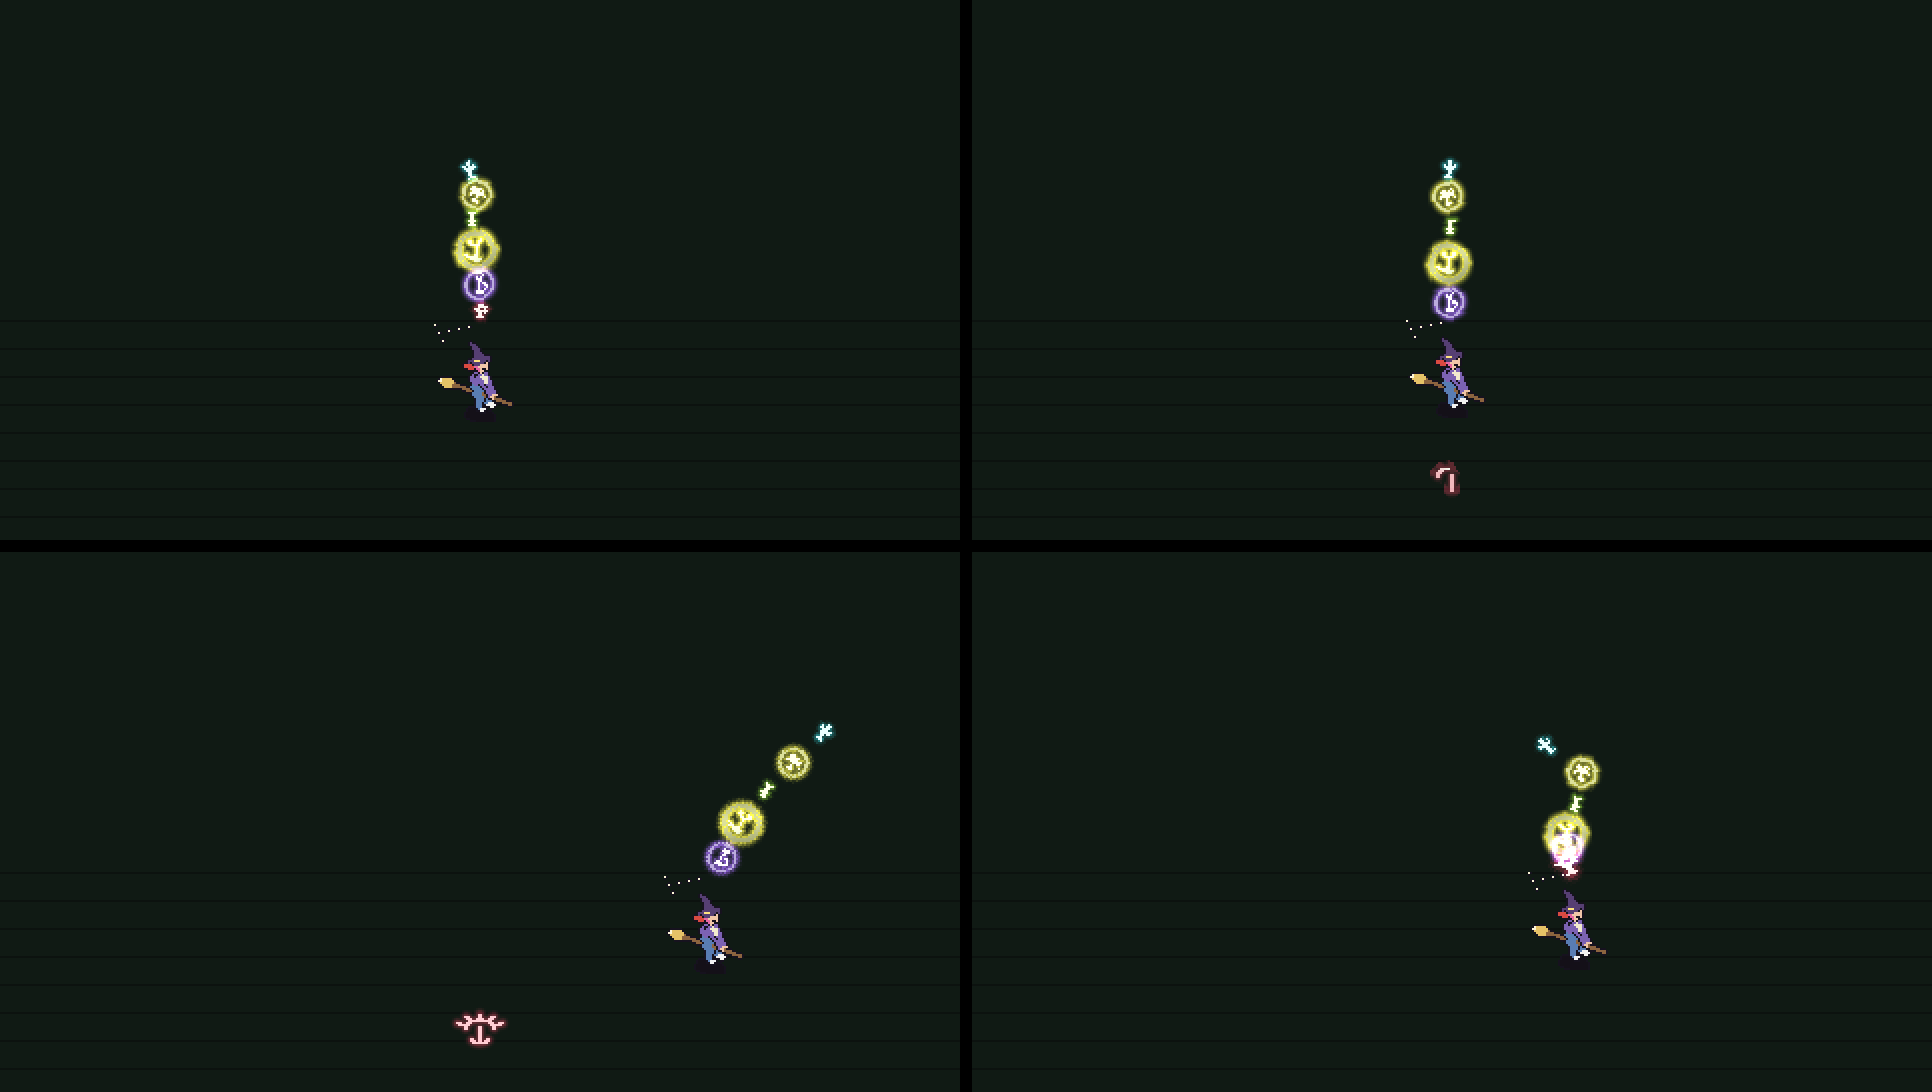
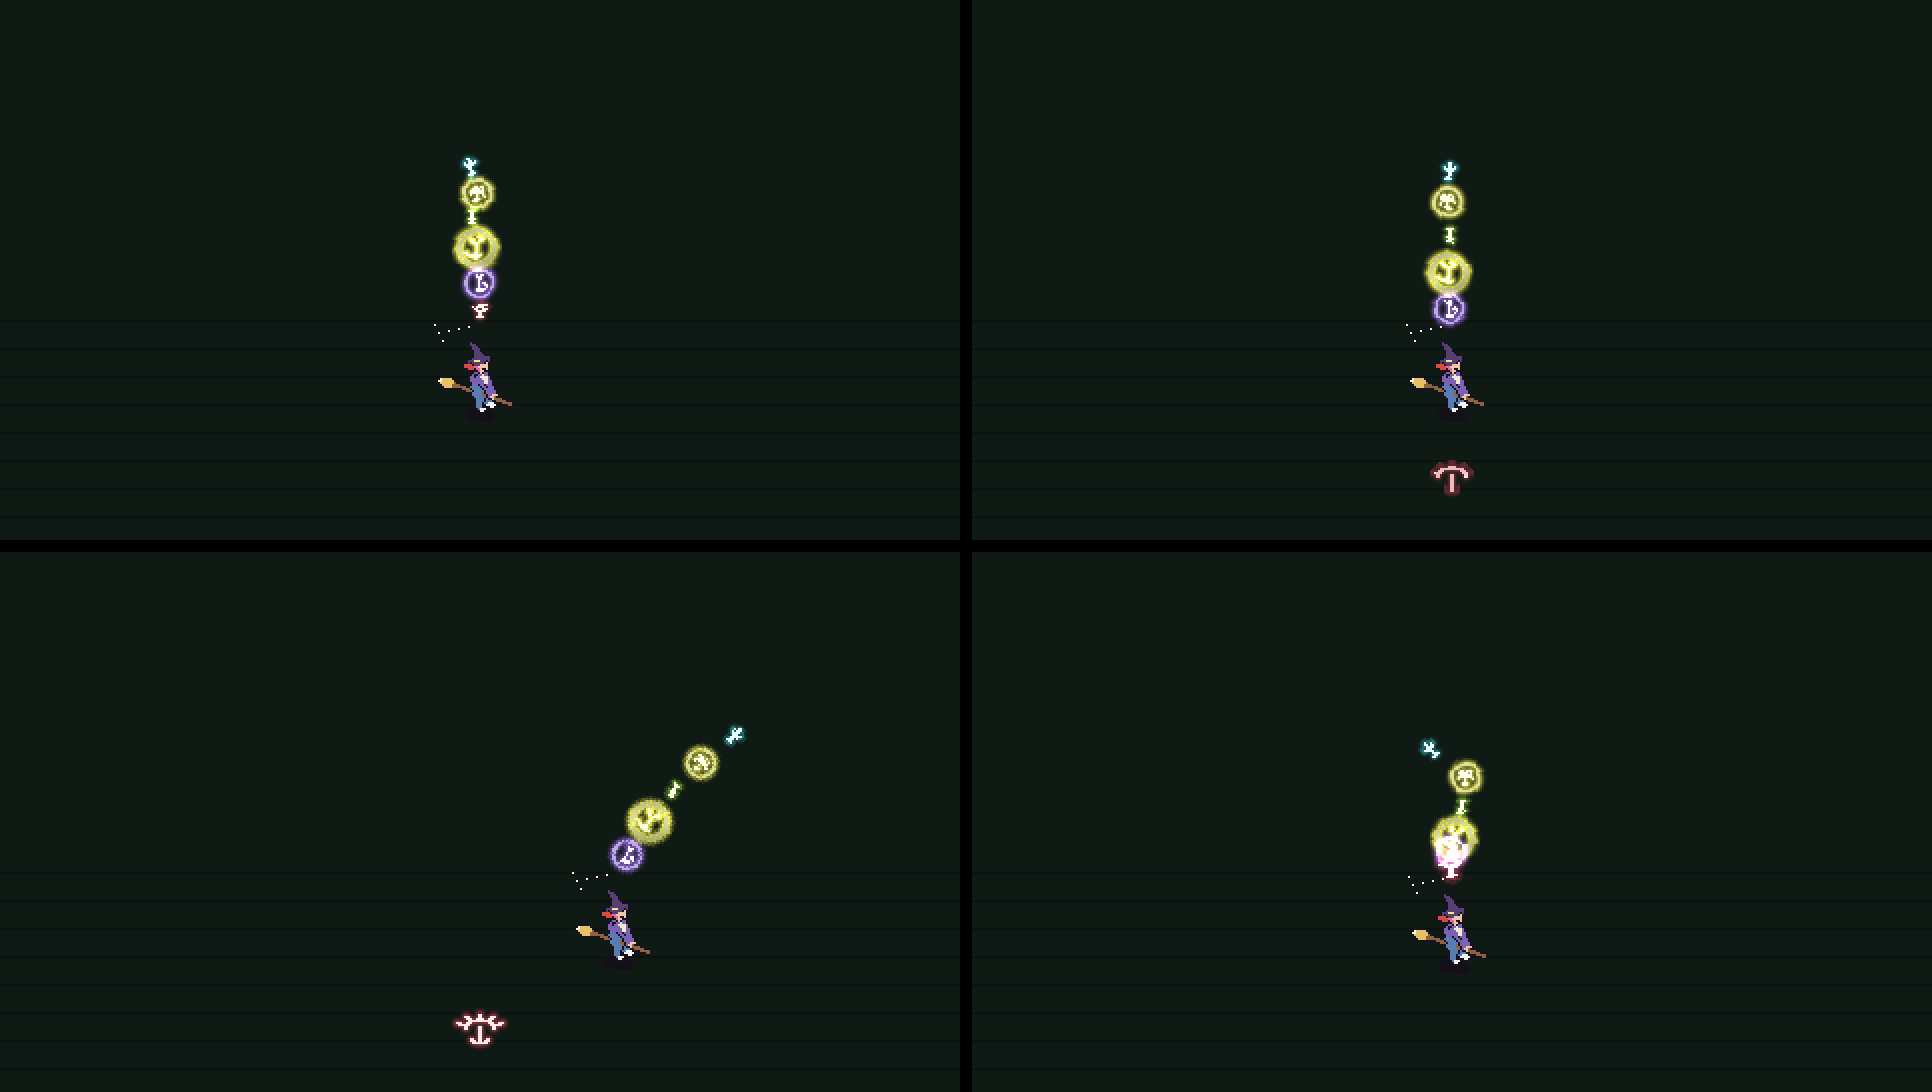
Sigils: frames for four creature levels (baby, young, adult, legend)
Claude-Session: https://claude.ai/code/session_01FVGKHvaavDn5xGsWtRTBaz

diff --git a/tools/art-lab/dist/witch-art-lab.html b/tools/art-lab/dist/witch-art-lab.html
@@ -66,7 +66,7 @@ label.check input { accent-color: var(--accent); }
 .beast figcaption { grid-template-columns: 1fr auto; }
 .beast figcaption > b, .beast figcaption > span:not(.sig) { grid-column: 1; }
 .beast figcaption .sig { grid-column: 2; grid-row: 1 / span 2; width: 44px; height: 44px; margin-left: 8px; }
-.sigils { display: grid; grid-template-columns: repeat(auto-fill, minmax(330px, 1fr)); gap: 10px; }
+.sigils { display: grid; grid-template-columns: repeat(auto-fill, minmax(420px, 1fr)); gap: 10px; }
 .sigil { margin: 0; border: 1px solid var(--line); border-radius: 6px; background: #0b0910; display: flex; flex-wrap: wrap; align-items: center; justify-content: space-around; gap: 4px; padding: 8px 6px 4px; }
 .sigil canvas { image-rendering: pixelated; }
 .sigil figcaption { flex-basis: 100%; font-size: 13px; color: var(--muted); padding-top: 4px; }
@@ -136,7 +136,7 @@ textarea { width: 100%; min-height: 90px; background: var(--bg); color: var(--fg
           <label class="check"><input type="checkbox" id="sgFly"> Fly</label>
         </div>
         <div class="stage"><canvas id="sgStack" width="480" height="270" style="width:100%;height:auto;image-rendering:pixelated"></canvas></div>
-        <p class="note">Below, each sigil at the three creature levels (baby, young, legend), flat and then on the ground at the game's angle, drawing on.</p>
+        <p class="note">Below, each sigil at the four creature levels (baby, young, adult, legend), flat and then on the ground at the game's angle, drawing on.</p>
         <div class="sigils" id="sigils"></div>
       </section>
 
@@ -1696,14 +1696,15 @@ const WHITE = [255, 255, 250], toward = (c, w, k) => c.map((v, j) => Math.round(
 const rgb = c => `rgb(${c.join(",")})`;
 
 // ---- level frames ----
-// A creature level's frame, for any level number (0 baby, 1 young, 2 legend, and beyond):
-// size steps first, then rings, then ornament.
-//   metres: across on the ground; core: the core line's thickness (x a baby's); halo: its
-//   brightness (0..1); rings: how many; band: rune ticks between the outer two rings; rays: short
-//   points outside the outer ring; shimmer: a slow sparkle.
+// A creature level's frame, for any level number (0 baby, 1 young, 2 adult, 3 legend, and
+// beyond): size steps first, then rings, then ornament.
+//   metres: across on the ground (about 2, 3, 4, 5.5); core: the core line's thickness (x a
+//   baby's); halo: its brightness (0..1); rings: how many; band: rune ticks between the outer two
+//   rings; rays: short points outside the outer ring; shimmer: a slow sparkle.
+const SIGIL_LEVELS = ["baby", "young", "adult", "legend"];
 function sigilFrame(level = 0) {
   const L = Math.max(0, level);
-  return { level: L, metres: 2 + L + L * (L - 1) / 2, core: 1 + .22 * L, halo: Math.min(1, .45 + .27 * L), rings: Math.min(3, Math.floor(L)), band: L >= 2, rays: L >= 3 ? 8 : L >= 2 ? 4 : 0, shimmer: L >= 2 };
+  return { level: L, metres: 2 + L + Math.max(0, L - 2) * .5, core: 1 + .2 * L, halo: Math.min(1, .45 + .19 * L), rings: Math.min(L >= 4 ? 3 : 2, Math.floor(L)), band: L >= 3, rays: L >= 4 ? 8 : L >= 3 ? 4 : 0, shimmer: L >= 3 };
 }
 
 // ---- geometry: strokes as polylines, with their lengths ----
@@ -2903,11 +2904,11 @@ const sigilCards = [];
 let stackDemo = null;
 function buildSigils() {
   const host = document.getElementById("sigils"); if (!host || sigilCards.length) return;
-  const ppm = 14; // ground pixels per metre in the cards
+  const ppm = 11; // ground pixels per metre in the cards
   SIGIL_IDS.forEach((id, i) => {
     const fig = document.createElement("figure"), name = SPECIES_BY_ID[id].name; fig.className = "sigil";
-    const flats = [0, 1, 2].map(level => { const c = document.createElement("canvas"); c.width = c.height = 48; c.style.width = "48px"; c.setAttribute("aria-label", `${name} sigil, ${["baby", "young", "legend"][level]}`); return c; });
-    const grounds = [0, 1, 2].map(level => { const g = groundSigil(id, { level, pxPerMetre: ppm }), c = document.createElement("canvas"); c.width = g.w; c.height = g.h; c.setAttribute("aria-label", `${name} sigil on the ground, ${["baby", "young", "legend"][level]}`); return { g, c }; });
+    const flats = [0, 1, 2, 3].map(level => { const c = document.createElement("canvas"); c.width = c.height = 44; c.style.width = "44px"; c.setAttribute("aria-label", `${name} sigil, ${SIGIL_LEVELS[level]}`); return c; });
+    const grounds = [0, 1, 2, 3].map(level => { const g = groundSigil(id, { level, pxPerMetre: ppm }), c = document.createElement("canvas"); c.width = g.w; c.height = g.h; c.setAttribute("aria-label", `${name} sigil on the ground, ${SIGIL_LEVELS[level]}`); return { g, c }; });
     const cap = document.createElement("figcaption"); cap.textContent = name;
     fig.append(...flats, ...grounds.map(x => x.c), cap); host.append(fig);
     sigilCards.push({ id, flats, grounds, offset: (i % 6) * .25 });
@@ -2921,7 +2922,7 @@ function buildSigils() {
     if (visible) {
       for (const c of sigilCards) {
         const t = ((now / 1000 + c.offset) % cycle);
-        c.flats.forEach((cv, level) => { const x = cv.getContext("2d"); x.clearRect(0, 0, 48, 48); drawSigil(x, c.id, { size: 48, level, progress: Math.min(1, t / .6) }); });
+        c.flats.forEach((cv, level) => { const x = cv.getContext("2d"); x.clearRect(0, 0, 44, 44); drawSigil(x, c.id, { size: 44, level, progress: Math.min(1, t / .6) }); });
         c.grounds.forEach(({ g, c: cv }) => paintSigilField(g, t, { canvas: cv }));
       }
       stackDemo?.frame(now / 1000, dt);
@@ -2941,7 +2942,7 @@ function makeStackDemo() {
   const floatOf = (id, level) => { const k = id + level; if (!floats.has(k)) { const f = floatSigil(id, { level, px: stack.tuning.size * ppm }); floats.set(k, { f, c: paintSigilField(f, 99) }); } return floats.get(k); };
   const groundOf = (id, level) => { const k = id + level; if (!grounds.has(k)) grounds.set(k, groundSigil(id, { level, pxPerMetre: ppm })); return grounds.get(k); };
   let wx = 0, alt = 1.1, flyT = 0, n = 0;
-  const pickNext = () => { const id = SIGIL_IDS[(n * 7 + 3) % SIGIL_IDS.length], level = [0, 1, 0, 2, 1][n % 5]; n++; return [id, level]; };
+  const pickNext = () => { const id = SIGIL_IDS[(n * 7 + 3) % SIGIL_IDS.length], level = [0, 1, 2, 0, 3, 1][n % 6]; n++; return [id, level]; };
   for (let i = 0; i < 4; i++) stack.push(...pickNext());
   const head = () => [wx, alt + witchH, 0];
   document.getElementById("sgLeash").onclick = () => stack.push(...pickNext());

diff --git a/tools/art-lab/witch-art-lab.html b/tools/art-lab/witch-art-lab.html
@@ -66,7 +66,7 @@ label.check input { accent-color: var(--accent); }
 .beast figcaption { grid-template-columns: 1fr auto; }
 .beast figcaption > b, .beast figcaption > span:not(.sig) { grid-column: 1; }
 .beast figcaption .sig { grid-column: 2; grid-row: 1 / span 2; width: 44px; height: 44px; margin-left: 8px; }
-.sigils { display: grid; grid-template-columns: repeat(auto-fill, minmax(330px, 1fr)); gap: 10px; }
+.sigils { display: grid; grid-template-columns: repeat(auto-fill, minmax(420px, 1fr)); gap: 10px; }
 .sigil { margin: 0; border: 1px solid var(--line); border-radius: 6px; background: #0b0910; display: flex; flex-wrap: wrap; align-items: center; justify-content: space-around; gap: 4px; padding: 8px 6px 4px; }
 .sigil canvas { image-rendering: pixelated; }
 .sigil figcaption { flex-basis: 100%; font-size: 13px; color: var(--muted); padding-top: 4px; }
@@ -136,7 +136,7 @@ textarea { width: 100%; min-height: 90px; background: var(--bg); color: var(--fg
           <label class="check"><input type="checkbox" id="sgFly"> Fly</label>
         </div>
         <div class="stage"><canvas id="sgStack" width="480" height="270" style="width:100%;height:auto;image-rendering:pixelated"></canvas></div>
-        <p class="note">Below, each sigil at the three creature levels (baby, young, legend), flat and then on the ground at the game's angle, drawing on.</p>
+        <p class="note">Below, each sigil at the four creature levels (baby, young, adult, legend), flat and then on the ground at the game's angle, drawing on.</p>
         <div class="sigils" id="sigils"></div>
       </section>
 
@@ -178,7 +178,7 @@ textarea { width: 100%; min-height: 90px; background: var(--bg); color: var(--fg
 </div>
 
 <script type="module">
-import { rng, uni, pick, gauss, hash2, vnoise, KNOBS, GROUPS, defaultStyle, mutate, hsv2rgb, M, SPECIES, SPECIES_BY_ID, speciesColours, critter, bake, buildAssets, FEATURE_NAMES, SOUNDSYSTEMS, soundsystemSprite, soundsystemColours, witchSprite, witchColours, SIGIL_IDS, sigilSVG, drawSigil, sigilFrame, groundSigil, floatSigil, paintSigilField, SigilStack, liftOff, setDown, SIGIL_TRANSITION_TIME, GROUND_PITCH } from "../../art/generator.js";
+import { rng, uni, pick, gauss, hash2, vnoise, KNOBS, GROUPS, defaultStyle, mutate, hsv2rgb, M, SPECIES, SPECIES_BY_ID, speciesColours, critter, bake, buildAssets, FEATURE_NAMES, SOUNDSYSTEMS, soundsystemSprite, soundsystemColours, witchSprite, witchColours, SIGIL_IDS, sigilSVG, drawSigil, sigilFrame, groundSigil, floatSigil, paintSigilField, SigilStack, liftOff, setDown, SIGIL_TRANSITION_TIME, GROUND_PITCH, SIGIL_LEVELS } from "../../art/generator.js";
 import { shade } from "../../art/lighting.js";
 // ================= fractal jittered Voronoi (Boris the Brave, 2026) =================
 // Layer 0 is a jittered grid of area sites (one per unit cell). Each finer layer halves the
@@ -427,11 +427,11 @@ const sigilCards = [];
 let stackDemo = null;
 function buildSigils() {
   const host = document.getElementById("sigils"); if (!host || sigilCards.length) return;
-  const ppm = 14; // ground pixels per metre in the cards
+  const ppm = 11; // ground pixels per metre in the cards
   SIGIL_IDS.forEach((id, i) => {
     const fig = document.createElement("figure"), name = SPECIES_BY_ID[id].name; fig.className = "sigil";
-    const flats = [0, 1, 2].map(level => { const c = document.createElement("canvas"); c.width = c.height = 48; c.style.width = "48px"; c.setAttribute("aria-label", `${name} sigil, ${["baby", "young", "legend"][level]}`); return c; });
-    const grounds = [0, 1, 2].map(level => { const g = groundSigil(id, { level, pxPerMetre: ppm }), c = document.createElement("canvas"); c.width = g.w; c.height = g.h; c.setAttribute("aria-label", `${name} sigil on the ground, ${["baby", "young", "legend"][level]}`); return { g, c }; });
+    const flats = [0, 1, 2, 3].map(level => { const c = document.createElement("canvas"); c.width = c.height = 44; c.style.width = "44px"; c.setAttribute("aria-label", `${name} sigil, ${SIGIL_LEVELS[level]}`); return c; });
+    const grounds = [0, 1, 2, 3].map(level => { const g = groundSigil(id, { level, pxPerMetre: ppm }), c = document.createElement("canvas"); c.width = g.w; c.height = g.h; c.setAttribute("aria-label", `${name} sigil on the ground, ${SIGIL_LEVELS[level]}`); return { g, c }; });
     const cap = document.createElement("figcaption"); cap.textContent = name;
     fig.append(...flats, ...grounds.map(x => x.c), cap); host.append(fig);
     sigilCards.push({ id, flats, grounds, offset: (i % 6) * .25 });
@@ -445,7 +445,7 @@ function buildSigils() {
     if (visible) {
       for (const c of sigilCards) {
         const t = ((now / 1000 + c.offset) % cycle);
-        c.flats.forEach((cv, level) => { const x = cv.getContext("2d"); x.clearRect(0, 0, 48, 48); drawSigil(x, c.id, { size: 48, level, progress: Math.min(1, t / .6) }); });
+        c.flats.forEach((cv, level) => { const x = cv.getContext("2d"); x.clearRect(0, 0, 44, 44); drawSigil(x, c.id, { size: 44, level, progress: Math.min(1, t / .6) }); });
         c.grounds.forEach(({ g, c: cv }) => paintSigilField(g, t, { canvas: cv }));
       }
       stackDemo?.frame(now / 1000, dt);
@@ -465,7 +465,7 @@ function makeStackDemo() {
   const floatOf = (id, level) => { const k = id + level; if (!floats.has(k)) { const f = floatSigil(id, { level, px: stack.tuning.size * ppm }); floats.set(k, { f, c: paintSigilField(f, 99) }); } return floats.get(k); };
   const groundOf = (id, level) => { const k = id + level; if (!grounds.has(k)) grounds.set(k, groundSigil(id, { level, pxPerMetre: ppm })); return grounds.get(k); };
   let wx = 0, alt = 1.1, flyT = 0, n = 0;
-  const pickNext = () => { const id = SIGIL_IDS[(n * 7 + 3) % SIGIL_IDS.length], level = [0, 1, 0, 2, 1][n % 5]; n++; return [id, level]; };
+  const pickNext = () => { const id = SIGIL_IDS[(n * 7 + 3) % SIGIL_IDS.length], level = [0, 1, 2, 0, 3, 1][n % 6]; n++; return [id, level]; };
   for (let i = 0; i < 4; i++) stack.push(...pickNext());
   const head = () => [wx, alt + witchH, 0];
   document.getElementById("sgLeash").onclick = () => stack.push(...pickNext());

diff --git a/art/generator.js b/art/generator.js
@@ -13,8 +13,8 @@ import { AREAS, AREA_BY_ID, areaAssets, WALLS_BLOCK, SET_PIECE_CHANCE, lightProp
 import { SPECIES, SPECIES_BY_ID, FEATURE_NAMES, speciesColours, critter, levelHeight } from "./creatures.js";
 export { witchSprite, witchColours, witchModel, WITCH_PARTS, DEFAULT_OUTFIT };
 export { AREAS, AREA_BY_ID, areaAssets, WALLS_BLOCK, SET_PIECE_CHANCE, lightProps, runeStone };
-import { SIGILS, SIGIL_IDS, SIGIL_STROKE, SIGIL_DOT, SIGIL_DRAW_TIME, GROUND_PITCH, NEON, SIGIL_NEON, sigilColour, sigilFrame, sigilStrokes, sigilMark, sigilSVG, drawSigil, sigilHit, sigilGlyph, sigilField, groundSigil, floatSigil, floatSize, paintSigilField, SigilStack, STACK_TUNING, SIGIL_TRANSITION_TIME, liftOff, setDown } from "./sigils.js";
-export { SIGILS, SIGIL_IDS, SIGIL_STROKE, SIGIL_DOT, SIGIL_DRAW_TIME, GROUND_PITCH, NEON, SIGIL_NEON, sigilColour, sigilFrame, sigilStrokes, sigilMark, sigilSVG, drawSigil, sigilHit, sigilGlyph, sigilField, groundSigil, floatSigil, floatSize, paintSigilField, SigilStack, STACK_TUNING, SIGIL_TRANSITION_TIME, liftOff, setDown };
+import { SIGILS, SIGIL_IDS, SIGIL_STROKE, SIGIL_DOT, SIGIL_DRAW_TIME, GROUND_PITCH, NEON, SIGIL_NEON, SIGIL_LEVELS, sigilColour, sigilFrame, sigilStrokes, sigilMark, sigilSVG, drawSigil, sigilHit, sigilGlyph, sigilField, groundSigil, floatSigil, floatSize, paintSigilField, SigilStack, STACK_TUNING, SIGIL_TRANSITION_TIME, liftOff, setDown } from "./sigils.js";
+export { SIGILS, SIGIL_IDS, SIGIL_STROKE, SIGIL_DOT, SIGIL_DRAW_TIME, GROUND_PITCH, NEON, SIGIL_NEON, SIGIL_LEVELS, sigilColour, sigilFrame, sigilStrokes, sigilMark, sigilSVG, drawSigil, sigilHit, sigilGlyph, sigilField, groundSigil, floatSigil, floatSize, paintSigilField, SigilStack, STACK_TUNING, SIGIL_TRANSITION_TIME, liftOff, setDown };
 import { SOUNDSYSTEMS, soundsystemColours, soundsystemSprite, soundsystemHeight, soundsystems } from "./soundsystem.js";
 export { SOUNDSYSTEMS, soundsystemColours, soundsystemSprite, soundsystemHeight };
 export { TREE_TYPES, chooseType, treeColours, finishTree, splitTree, bush, broadTree, firTree, willowTree, birchTree, palmTree, flatTree };

diff --git a/art/sigils.js b/art/sigils.js
@@ -124,14 +124,15 @@ const WHITE = [255, 255, 250], toward = (c, w, k) => c.map((v, j) => Math.round(
 const rgb = c => `rgb(${c.join(",")})`;
 
 // ---- level frames ----
-// A creature level's frame, for any level number (0 baby, 1 young, 2 legend, and beyond):
-// size steps first, then rings, then ornament.
-//   metres: across on the ground; core: the core line's thickness (x a baby's); halo: its
-//   brightness (0..1); rings: how many; band: rune ticks between the outer two rings; rays: short
-//   points outside the outer ring; shimmer: a slow sparkle.
+// A creature level's frame, for any level number (0 baby, 1 young, 2 adult, 3 legend, and
+// beyond): size steps first, then rings, then ornament.
+//   metres: across on the ground (about 2, 3, 4, 5.5); core: the core line's thickness (x a
+//   baby's); halo: its brightness (0..1); rings: how many; band: rune ticks between the outer two
+//   rings; rays: short points outside the outer ring; shimmer: a slow sparkle.
+export const SIGIL_LEVELS = ["baby", "young", "adult", "legend"];
 export function sigilFrame(level = 0) {
   const L = Math.max(0, level);
-  return { level: L, metres: 2 + L + L * (L - 1) / 2, core: 1 + .22 * L, halo: Math.min(1, .45 + .27 * L), rings: Math.min(3, Math.floor(L)), band: L >= 2, rays: L >= 3 ? 8 : L >= 2 ? 4 : 0, shimmer: L >= 2 };
+  return { level: L, metres: 2 + L + Math.max(0, L - 2) * .5, core: 1 + .2 * L, halo: Math.min(1, .45 + .19 * L), rings: Math.min(L >= 4 ? 3 : 2, Math.floor(L)), band: L >= 3, rays: L >= 4 ? 8 : L >= 3 ? 4 : 0, shimmer: L >= 3 };
 }
 
 // ---- geometry: strokes as polylines, with their lengths ----

diff --git a/art/README.md b/art/README.md
@@ -61,15 +61,16 @@ Each creature has a **sigil** (`art/sigils.js`), its name written in the forest'
 - carving and the interface: the bestiary card, rune stones, soundsystems.
 
 They glow **neon**: a near-white core in a coloured halo, each species in its own palette slot. Each creature **level** has a frame that grows, so a field of runes shows at a glance what is about:
-- **baby:** the bare sigil, about 2 m across;
-- **young:** about 3 m, thicker and brighter, with one ring;
-- **legend:** about 5 m, the thickest and brightest, with a double ring, a band of rune ticks, four rays and a slow shimmer.
+- **baby** (level 0): the bare sigil, about 2 m across;
+- **young** (1): about 3 m, thicker and brighter, with one ring;
+- **adult** (2): about 4 m, thicker and brighter again, with two rings;
+- **legend** (3): about 5.5 m, the thickest and brightest, with its double ring banded with rune ticks, four rays and a slow shimmer.
 
 | Call | Gives |
 |---|---|
 | `SIGILS[id]` | the strokes, in writing order, in a unit box (x right, y down): `{ l: [[x, y], …] }` a polyline, `{ a: [cx, cy, r, from, to] }` an arc (degrees, 0 right, 90 down), `{ d: [x, y] }` an end dot; each drawn from its first point. `SIGIL_STROKE` and `SIGIL_DOT` are the stroke width and dot radius |
 | `NEON`, `SIGIL_NEON[id]`, `sigilColour(id)` | the neon palette, each species' slot in it, and its colour. Every renderer also takes `colour`, so the game can recolour (per outfit, say) |
-| `sigilFrame(level)` | a level's frame, for any level number: `{ metres, core, halo, rings, band, rays, shimmer }`. Size steps first, then rings, then ornament, so levels between or beyond these extend it |
+| `sigilFrame(level)`, `SIGIL_LEVELS` | a level's frame, for any level number (0 baby, 1 young, 2 adult, 3 legend): `{ metres, core, halo, rings, band, rays, shimmer }`. Size steps first, then rings, then ornament, so levels between or beyond these extend it |
 | `sigilStrokes(id)`, `sigilMark(id, level)` | the sigil's strokes as polylines, or everything drawn for a level (the frame first, then the sigil scaled into it) in its "mark" box. Each carries its share of the draw-on (`start`, `end`, 0 to 1) and its width |
 | `sigilSVG(id, { size, level, colour, glow, progress })`, `drawSigil(ctx, id, { x, y, size, level, colour, progress, glow })` | the neon sigil as an SVG string or on a canvas, bare (`level` null, the default) or framed for a level; `progress` below 1 draws it partly written. Transform the canvas first to lay it on a plane |
 | `sigilGlyph(id, size)`, `sigilHit(id, u, v, w)` | the bare sigil as a pixel glyph (`{ w, h, m }`, 12 to 24 px), or a hit test for carving it like `runeGlyph` |
@@ -82,7 +83,7 @@ They glow **neon**: a near-white core in a coloured halo, each species in its ow
 
 In a 3D engine, `drawSigil` onto a canvas texture laid flat on the ground (or upright, facing the camera, for the stack) does the same as the pixel fields, with the engine doing the foreshortening.
 
-The export writes each sigil as `sigil-<species>.svg` (bare), a 64 px `sigil-<species>.png`, and `sigil-<species>-baby|young|legend.svg` (framed). It lists them, with their strokes, neon slots, the level frames and the stack's tuning, under `sigils` in `manifest.json`.
+The export writes each sigil as `sigil-<species>.svg` (bare), a 64 px `sigil-<species>.png`, and `sigil-<species>-baby|young|adult|legend.svg` (framed). It lists them, with their strokes, neon slots, the level frames and the stack's tuning, under `sigils` in `manifest.json`.
 
 The night lighting pass the lab uses is `shade(target, out, style, lights, rect)` in `art/lighting.js`.
 
